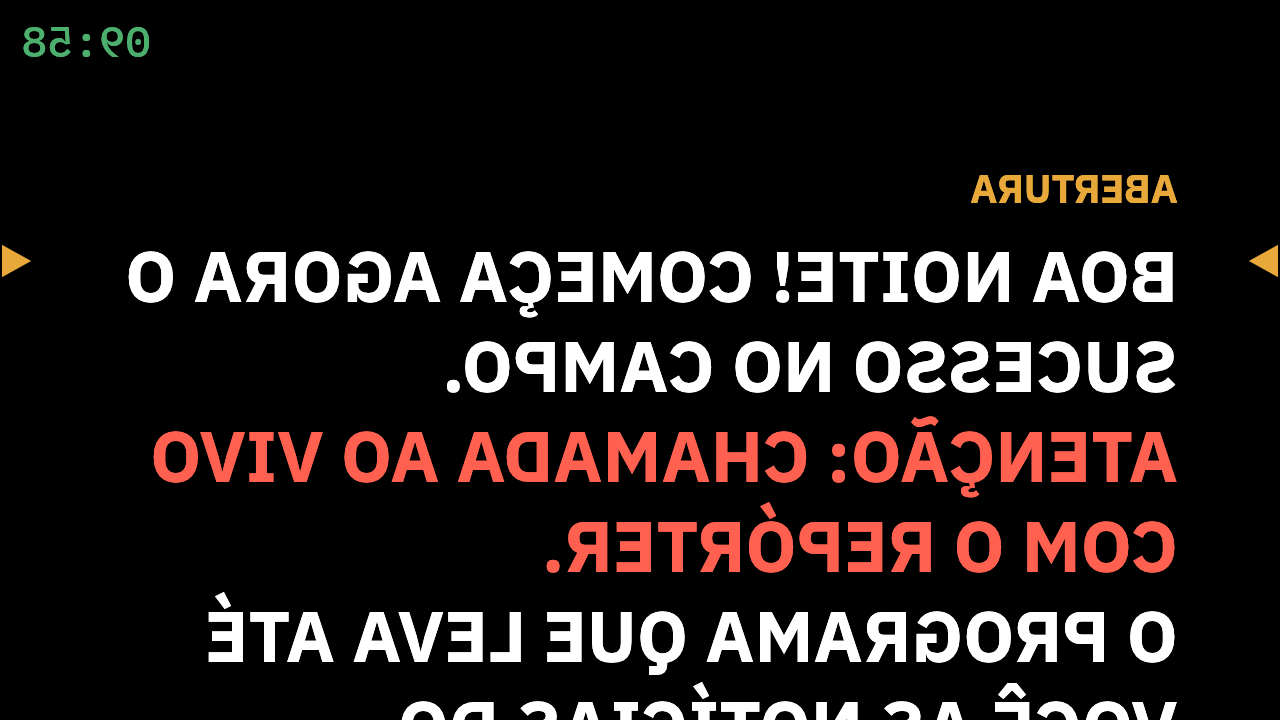
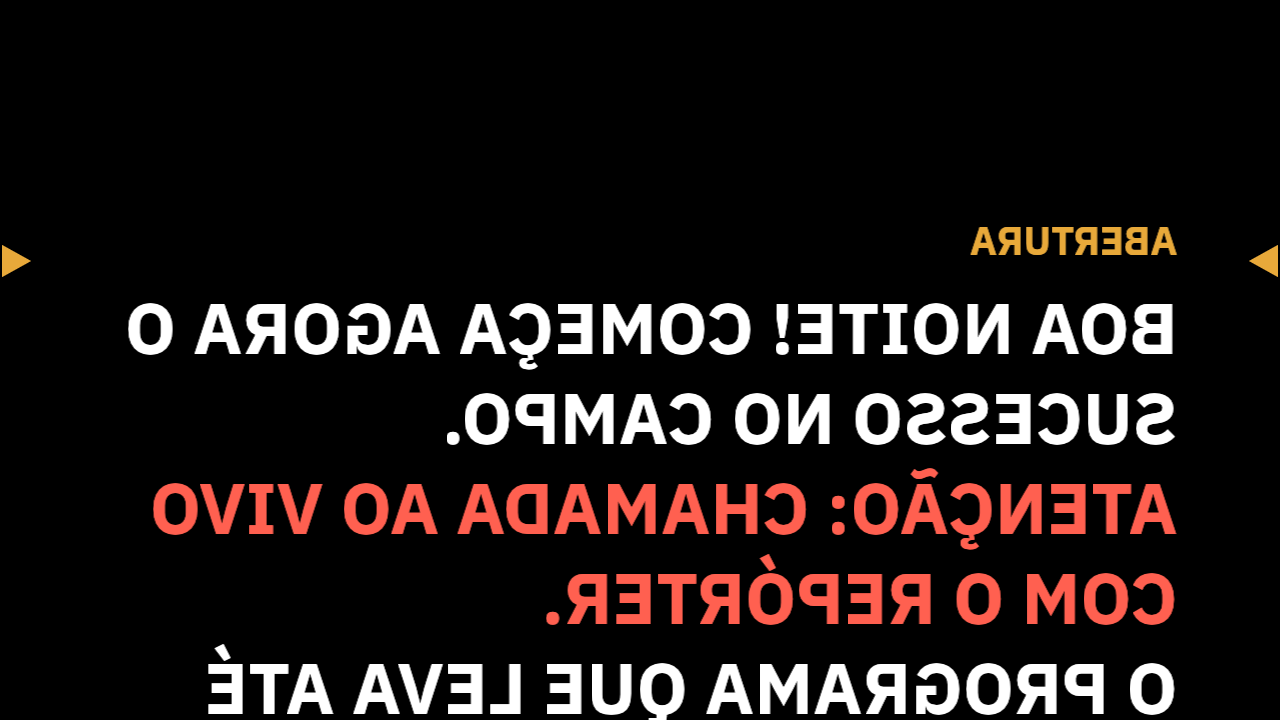
Teleprompter 0.5.1: prévia no tamanho do monitor, espelhamento à vista, prints novos
- A prévia e a janela do apresentador usam o tamanho e a orientação
  (inclusive retrato) do monitor escolhido, antes mesmo de abrir.
- Botão Espelhar em cima da prévia e no menu Apresentador; opção
  'ver espelhado' para a prévia mostrar o que vai para o vidro.
- README com galeria de prints da versão atual (1366x768).

Claude-Session: https://claude.ai/code/session_01TMowB9CQEMxcFqu1EHAmSP

Changed region(s): [[0.0938, 0.2444, 0.9375, 1.0], [0.0, 0.0306, 0.125, 0.0917]]

diff --git a/crates/teleprompter/src/app/previa.rs b/crates/teleprompter/src/app/previa.rs
@@ -4,17 +4,27 @@ use super::*;
 
 impl App {
     pub(super) fn previa(&mut self, ui: &mut Ui) {
+        let alvo = self.tamanho_alvo_apresentador();
         let mut disponivel = ui.available_rect_before_wrap();
         disponivel.min.y += 26.0; // espaço para o rótulo acima da prévia
-        let proporcao =
-            (self.tamanho_apresentador.x / self.tamanho_apresentador.y.max(1.0)).clamp(0.3, 4.0);
+        let proporcao = (alvo.x / alvo.y.max(1.0)).clamp(0.3, 4.0);
         let mut tam = Vec2::new(disponivel.width(), disponivel.width() / proporcao);
         if tam.y > disponivel.height() {
             tam = Vec2::new(disponivel.height() * proporcao, disponivel.height());
         }
         let rect = Rect::from_center_size(disponivel.center(), tam);
+        // "Prévia espelhada": o operador vê exatamente o que vai para o vidro.
+        let espelho_previa = if self.cfg.previa_espelhada {
+            Espelho {
+                rect,
+                horizontal: self.cfg.espelhar_horizontal,
+                vertical: self.cfg.espelhar_vertical,
+            }
+        } else {
+            Espelho::nenhum(rect)
+        };
         let resp = ui.allocate_rect(rect, Sense::click_and_drag());
-        let escala = rect.width() / self.tamanho_apresentador.x.max(1.0);
+        let escala = rect.width() / alvo.x.max(1.0);
         let familia = self
             .fontes
             .familia(ui.ctx(), &self.cfg.font_family, self.cfg.negrito);
@@ -27,7 +37,7 @@ impl App {
             c.alinhamento,
             c.caixa_alta,
             c.mostrar_titulos,
-            self.tamanho_apresentador.x
+            alvo.x
         );
         // Onde estava a leitura (bloco + fração dentro dele), antes da formatação mudar.
         let ancora = if assinatura != self.assinatura_layout {
@@ -56,7 +66,7 @@ impl App {
             &familia,
             self.rolagem_em,
             escala,
-            Espelho::nenhum(rect),
+            espelho_previa,
         );
         if let Some((b, fracao)) = ancora
             && let Some(ini) = medidas.topos_em.get(b).copied()
@@ -75,16 +85,16 @@ impl App {
                 &familia,
                 self.rolagem_em,
                 escala,
-                Espelho::nenhum(rect),
+                espelho_previa,
             );
         }
         // As medidas da tela do apresentador (escala 1) valem igual — tudo é proporcional.
         self.medidas = medidas;
 
         let px = (self.cfg.font_size * escala).max(4.0);
-        self.mouse_no_texto(ui, &resp, px, false);
+        self.mouse_no_texto(ui, &resp, px, espelho_previa.vertical);
         if self.so_cronometro {
-            self.desenhar_so_cronometro(ui, rect, Espelho::nenhum(rect));
+            self.desenhar_so_cronometro(ui, rect, espelho_previa);
         }
         let p = self.p();
         ui.painter().rect_stroke(
@@ -122,7 +132,7 @@ impl App {
             ("Abrir apresentador", p.vermelho, Color32::WHITE)
         };
         let area = Rect::from_min_max(
-            egui::pos2(rect.right() - 220.0, rect.top() - 28.0),
+            egui::pos2(rect.right() - 420.0, rect.top() - 28.0),
             egui::pos2(rect.right(), rect.top() - 3.0),
         );
         let resp = ui
@@ -131,14 +141,45 @@ impl App {
                     .max_rect(area)
                     .layout(Layout::right_to_left(Align::Center)),
                 |ui| {
-                    icones::botao_com(
+                    let resp = icones::botao_com(
                         ui,
                         Icone::TelaCheia,
                         Some(RichText::new(txt).size(12.5).color(cor_txt)),
                         Vec2::new(0.0, 24.0),
                         Some(fundo),
                         Some(cor_txt),
+                    );
+                    // Espelhamento à vista (antes só no painel de Formatação).
+                    let ligado = self.cfg.espelhar_horizontal;
+                    if icones::botao_com(
+                        ui,
+                        Icone::Espelhar,
+                        Some(
+                            RichText::new(if ligado { "Espelhado" } else { "Espelhar" }).size(12.5),
+                        ),
+                        Vec2::new(0.0, 24.0),
+                        Some(if ligado {
+                            p.vermelho.gamma_multiply(0.25)
+                        } else {
+                            p.panel_2
+                        }),
+                        Some(if ligado { p.vermelho } else { p.texto }),
                     )
+                    .on_hover_text(
+                        "Espelha o texto na tela do apresentador (para o vidro do teleprompter)",
+                    )
+                    .clicked()
+                    {
+                        self.cfg.espelhar_horizontal = !ligado;
+                    }
+                    ui.checkbox(
+                        &mut self.cfg.previa_espelhada,
+                        RichText::new("ver espelhado").size(12.0),
+                    )
+                    .on_hover_text(
+                        "Mostra a prévia exatamente como a tela do apresentador (espelhada)",
+                    );
+                    resp
                 },
             )
             .inner;

diff --git a/crates/teleprompter/src/app/apresentador.rs b/crates/teleprompter/src/app/apresentador.rs
@@ -30,8 +30,23 @@ impl App {
                 altura: m.size().height,
                 principal: principal.as_ref() == Some(&m),
                 do_operador: do_operador.as_ref() == Some(&m),
+                escala: m.scale_factor() as f32,
             })
             .collect();
+    }
+
+    /// Tamanho que a tela do apresentador tem (aberta) ou vai ter (fechada):
+    /// a prévia usa a mesma proporção, inclusive monitor em pé (retrato).
+    pub(super) fn tamanho_alvo_apresentador(&self) -> Vec2 {
+        if self.apresentador_aberto {
+            return self.tamanho_apresentador;
+        }
+        if self.cfg.tela_cheia_apresentador
+            && let Some(m) = self.monitores.get(self.cfg.monitor_apresentador)
+        {
+            return m.tamanho_logico();
+        }
+        self.tamanho_apresentador
     }
 
     /// Monitor mais indicado para o apresentador: o primeiro que não é o do operador.
@@ -57,6 +72,10 @@ impl App {
             Some(i) => {
                 self.cfg.monitor_apresentador = i;
                 self.cfg.tela_cheia_apresentador = true;
+                // A prévia já assume o tamanho e a orientação do monitor escolhido.
+                if let Some(m) = self.monitores.get(i) {
+                    self.tamanho_apresentador = m.tamanho_logico();
+                }
             }
             None => self.cfg.tela_cheia_apresentador = false,
         }
@@ -194,7 +213,11 @@ impl App {
         }
         let mut builder = ViewportBuilder::default()
             .with_title("Sintonia Teleprompter — Apresentador")
-            .with_inner_size([1280.0, 720.0]);
+            .with_inner_size(if self.cfg.tela_cheia_apresentador {
+                self.tamanho_alvo_apresentador()
+            } else {
+                Vec2::new(1280.0, 720.0)
+            });
         if self.cfg.tela_cheia_apresentador {
             builder = builder
                 .with_fullscreen(true)
@@ -254,5 +277,24 @@ impl App {
                     }
                 });
         });
+    }
+}
+
+#[cfg(test)]
+mod tests {
+    use super::*;
+
+    #[test]
+    fn monitor_em_pe_e_com_escala() {
+        let m = InfoMonitor {
+            nome: "Teleprompter".into(),
+            largura: 1080,
+            altura: 1920,
+            principal: false,
+            do_operador: false,
+            escala: 1.5,
+        };
+        let t = m.tamanho_logico();
+        assert_eq!((t.x, t.y), (720.0, 1280.0), "retrato e escala de 150 %");
     }
 }

diff --git a/crates/teleprompter/src/app/formatacao.rs b/crates/teleprompter/src/app/formatacao.rs
@@ -200,10 +200,11 @@ impl App {
             );
             ui.checkbox(&mut self.cfg.espelhar_vertical, "Inverter vertical");
             ui.label(
-                RichText::new("O espelhamento vale só na tela do apresentador.")
+                RichText::new("Para ver a prévia espelhada também, marque abaixo.")
                     .small()
                     .weak(),
             );
+            ui.checkbox(&mut self.cfg.previa_espelhada, "Prévia espelhada também");
             ui.checkbox(&mut self.cfg.mostrar_marcador, "Seta de leitura");
             ui.label("Altura da linha de leitura");
             ui.add(egui::Slider::new(&mut self.cfg.marcador_pct, 5.0..=70.0).suffix(" %"));
@@ -253,7 +254,8 @@ impl App {
             ui.label(
                 RichText::new(format!(
                     "Tela do apresentador: {:.0} × {:.0}",
-                    self.tamanho_apresentador.x, self.tamanho_apresentador.y
+                    self.tamanho_alvo_apresentador().x,
+                    self.tamanho_alvo_apresentador().y
                 ))
                 .small()
                 .weak(),

diff --git a/crates/teleprompter/src/visual/icones.rs b/crates/teleprompter/src/visual/icones.rs
@@ -24,6 +24,7 @@ pub enum Icone {
     Mais,
     Lixeira,
     Usuario,
+    Espelhar,
 }
 
 /// Desenha o ícone ocupando o quadrado `r`.
@@ -135,6 +136,18 @@ pub fn desenhar(ui: &Ui, r: Rect, icone: Icone, cor: Color32) {
         Icone::Fechar => {
             p.line_segment([pt(-0.26, -0.26), pt(0.26, 0.26)], traco);
             p.line_segment([pt(0.26, -0.26), pt(-0.26, 0.26)], traco);
+        }
+        Icone::Espelhar => {
+            // Uma seta cheia e sua "imagem" vazada, refletidas na linha do vidro.
+            p.line_segment(
+                [pt(0.0, -0.42), pt(0.0, 0.42)],
+                Stroke::new(traco.width * 0.7, cor),
+            );
+            p.add(triangulo([pt(-0.1, -0.28), pt(-0.44, 0.0), pt(-0.1, 0.28)]));
+            p.add(Shape::closed_line(
+                vec![pt(0.1, -0.28), pt(0.44, 0.0), pt(0.1, 0.28)],
+                Stroke::new(traco.width * 0.8, cor),
+            ));
         }
         Icone::Mais => {
             p.line_segment([pt(-0.3, 0.0), pt(0.3, 0.0)], traco);

diff --git a/crates/teleprompter/src/app/menu.rs b/crates/teleprompter/src/app/menu.rs
@@ -69,6 +69,11 @@ impl App {
                 ui.label(RichText::new("Clique no monitor: a tela já abre em tela cheia nele.").size(11.5).color(p.texto_mais_fraco));
                 ui.add_space(4.0);
                 self.seletor_monitor(ui);
+                ui.separator();
+                ui.label(RichText::new("Espelhamento (vidro do teleprompter)").font(tema::forte(13.0)));
+                ui.checkbox(&mut self.cfg.espelhar_horizontal, "Espelhar horizontal");
+                ui.checkbox(&mut self.cfg.espelhar_vertical, "Inverter vertical");
+                ui.checkbox(&mut self.cfg.previa_espelhada, "Prévia espelhada também");
             });
             ui.menu_button("Predefinições", |ui| {
                 if self.cfg.predefinicoes.is_empty() {

diff --git a/crates/teleprompter/src/config.rs b/crates/teleprompter/src/config.rs
@@ -53,6 +53,8 @@ pub struct Settings {
     // Leitura
     pub espelhar_horizontal: bool,
     pub espelhar_vertical: bool,
+    /// A prévia do operador também aparece espelhada (igual ao vidro).
+    pub previa_espelhada: bool,
     pub mostrar_marcador: bool,
     /// Altura da linha de leitura, em % da altura da tela.
     pub marcador_pct: f32,
@@ -114,6 +116,7 @@ impl Default for Settings {
             mostrar_titulos: true,
             espelhar_horizontal: false,
             espelhar_vertical: false,
+            previa_espelhada: false,
             mostrar_marcador: true,
             marcador_pct: 30.0,
             velocidade_pct: 15.0,

diff --git a/crates/teleprompter/src/app/mod.rs b/crates/teleprompter/src/app/mod.rs
@@ -149,6 +149,15 @@ pub(super) struct InfoMonitor {
     pub(super) principal: bool,
     /// É o monitor onde está a janela do operador.
     pub(super) do_operador: bool,
+    /// Escala do sistema (ex.: 1,25 = 125 %), para converter pixels em pontos.
+    pub(super) escala: f32,
+}
+
+impl InfoMonitor {
+    /// Tamanho em pontos (o que a tela do apresentador vai ter em tela cheia).
+    pub(super) fn tamanho_logico(&self) -> Vec2 {
+        Vec2::new(self.largura as f32, self.altura as f32) / self.escala.max(0.5)
+    }
 }
 
 fn hoje() -> String {

diff --git a/README.md b/README.md
@@ -65,7 +65,16 @@ Também abre e salva **TXT**, inclusive os arquivos do teleprompter antigo
 - **Computadores simples**: o padrão é o renderizador **OpenGL**, mais leve; dá
   para trocar em Formatação → Desempenho.
 
-![Tela do apresentador espelhada](docs/tela-apresentador-espelhada.png)
+## Telas
+
+Prints da versão atual, numa tela de 1366 × 768.
+
+| | |
+|---|---|
+| ![Entrada](docs/tela-login.png) **Entrada** — mesmo login do Sintonia, com situação do servidor | ![Abrir espelho](docs/tela-seletor-espelho.png) **Abrir espelho** — escolha o dia, o programa e veja os itens antes |
+| ![Operador](docs/tela-operador.png) **Operador** — roteiro, prévia e controles | ![Barra recolhida](docs/tela-recolhida.png) **Recolhido** — setinhas deixam a prévia quase na tela toda |
+| ![Apresentador espelhado](docs/tela-apresentador-espelhada.png) **Apresentador** — texto espelhado para o vidro | ![Só cronômetro](docs/tela-so-cronometro.png) **Só cronômetro** — tempo de entrevista no meio da tela |
+| ![Escolha do monitor](docs/tela-monitores.png) **Apresentador** — escolha o monitor e o espelhamento | ![Tema claro](docs/tela-tema-claro.png) **Tema claro** — igual à opção do Sintonia |
 
 ## Atalhos (os mesmos do Apotec)
 
@@ -110,7 +119,13 @@ A colheita da soja avança no estado...
    mostra o nome e a resolução de cada um): a tela do apresentador já abre
    **em tela cheia nele**. O botão **Abrir apresentador**, acima da prévia,
    abre direto no monitor que não é o do operador.
-3. Se o monitor fica atrás de um vidro, marque **Espelhar horizontal** em Formatação.
+3. Se o monitor fica atrás de um vidro, clique em **Espelhar** (em cima da
+   prévia ou no menu Apresentador). Marque **ver espelhado** para a prévia
+   mostrar exatamente o que vai para o vidro.
+
+A prévia já assume o **tamanho e a orientação do monitor escolhido** — inclusive
+monitor em pé (retrato) — antes mesmo de abrir a tela do apresentador, então a
+quebra de linhas na prévia é a mesma do teleprompter.
 
 A prévia na tela do operador mostra exatamente a mesma quebra de linhas da
 tela do apresentador (mesma proporção), sem espelhar.
@@ -133,7 +148,6 @@ Na primeira tela, informe o endereço do servidor do Sintonia (o mesmo do
 navegador, ex.: `http://servidor:3001`), usuário e senha. O endereço e o
 usuário ficam salvos; a senha só no cofre do sistema, se você pedir.
 
-![Tela de entrada](docs/tela-login.png)
 
 ## Desenvolvimento
 

diff --git a/CHANGELOG.md b/CHANGELOG.md
@@ -3,6 +3,13 @@
 Formato baseado em [Keep a Changelog](https://keepachangelog.com/pt-BR/); versões
 seguem o [Versionamento Semântico](https://semver.org/lang/pt-BR/).
 
+## 0.5.1 — 2026-11-27
+- A prévia usa o tamanho e a orientação (inclusive retrato) do monitor escolhido
+  para o apresentador, antes mesmo de abrir; a janela já abre nesse tamanho.
+- Espelhamento à vista: botão "Espelhar" em cima da prévia e no menu Apresentador;
+  opção "ver espelhado" para a prévia mostrar o que vai para o vidro.
+- Prints do README atualizados (galeria com todas as telas).
+
 ## 0.5.0 — 2026-11-27
 ### Telas
 - Ícones desenhados (play, pausa, voltar, avançar, zerar, cronômetro…) no lugar
